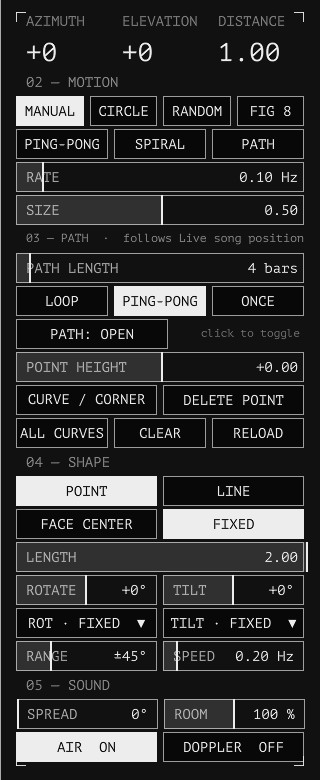
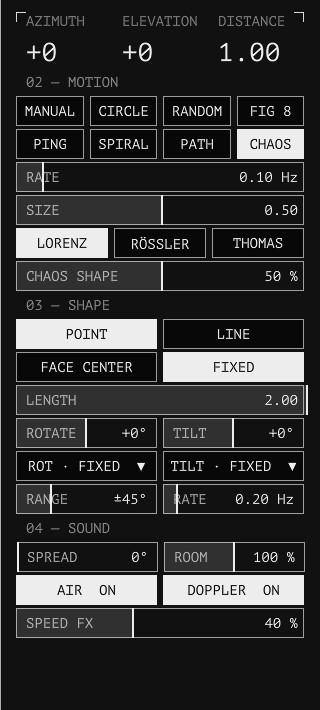
Orbit Score wiki v9.4: binaural room, distance compensation, ear height, room presets, mirror, SPEAKERS tab
Claude-Session: https://claude.ai/code/session_01TKc1CDoWRtRwsAG1rPAYtG

diff --git a/orbitscore-wiki/index.html b/orbitscore-wiki/index.html
@@ -144,7 +144,7 @@ footer{font:11.5px/1.6 var(--f-mono);color:var(--mid);border-top:1px solid var(-
 <div class="page">
 <nav class="side" aria-label="Contents">
   <div class="brand">ORBIT SCORE</div>
-  <div class="status">WIKI · v9.3 · 2026.11<br>LIVE · M4L · TOUCHDESIGNER</div>
+  <div class="status">WIKI · v9.4 · 2026.11<br>LIVE · M4L · TOUCHDESIGNER</div>
   <button class="btn menu" id="menuBtn" aria-expanded="false">CONTENTS ▾</button>
   <ol class="toc" id="toc">
     <li><a href="#overview"><span>00</span>OVERVIEW</a></li>
@@ -251,16 +251,17 @@ footer{font:11.5px/1.6 var(--f-mono);color:var(--mid);border-top:1px solid var(-
     <li>When you finish, <strong>save TouchDesigner with <kbd>Ctrl</kbd>+<kbd>S</kbd> and save the Live set as well</strong>. Paths and motion settings live in the Live set; the TouchDesigner save keeps the screen and theme settings.</li>
   </ol>
   <h4>Speaker outputs</h4>
-  <p>LIVE tab, right under <strong>02 SPEAKER LAYOUT</strong> (you press it after every layout change). No audio device is chosen in TouchDesigner — the sound always comes from Live, and the device (JackRouter / BlackHole) is set in Live's preferences (<a href="#setup-live">01.1</a>, <a href="#setup-out">01.3</a>).</p>
+  <p><span class="pill">SPEAKERS</span> tab, <strong>02 OUTPUTS</strong>, right under <strong>01 SPEAKER LAYOUT</strong> (you press it after every layout change). No audio device is chosen in TouchDesigner — the sound always comes from Live, and the device (JackRouter / BlackHole) is set in Live's preferences (<a href="#setup-live">01.1</a>, <a href="#setup-out">01.3</a>).</p>
   <ul>
     <li><strong>SET UP OUTPUTS 1…n IN LIVE</strong> — the Spatial Renderer creates one audio track per speaker pair (<code>OUT 1/2</code>, <code>OUT 3/4</code> …), feeds each from its own output pair and routes it to the matching Live output; spare empty OUT tracks are removed. It takes a few seconds. Press it again after changing the layout. Each Spatial Object routes its own track into the renderer when the monitor is on SPEAKERS.</li>
     <li><strong>Status line</strong> — <span class="mono">✓ renderer → OUT tracks → Live outputs 1…8</span>, or missing OUT tracks / wrong routing / Live offering fewer outputs than the layout needs (enable them in Output Config). The same shows as ⚠ on the LOG tab.</li>
     <li><strong>TEST · &lt; · &gt; · AUTO</strong> — speaker check. TEST plays pink noise from one speaker at a time (objects are silenced meanwhile); &lt; and &gt; step through the speakers, AUTO steps by itself. In the 3D view every speaker shows its number and the one sounding changes colour. Press TEST again to stop.</li>
     <li><strong>OUTPUT MAP</strong> — which Live output each speaker plays on, in speaker order: <span class="mono">1 2 3 4 5 6</span> is the default, <span class="mono">3 4 1 2</span> swaps the pairs, <span class="mono">1 2 3 4 7 8</span> skips outputs 5–6. Type and press Enter; empty goes back to 1 2 3 …. Kept per layout. SET UP then makes OUT tracks up to the highest channel, and TEST follows the map.</li>
-    <li><strong>Custom (measured)</strong> — last entry of the layout list. <strong>EDIT TABLE</strong> opens a table with one row per speaker: <span class="mono">name · az · el · dist · lfe</span> (az + = left, el + = up, dist relative to the ring, 1 = the speaker radius; lfe 1 for a sub). Measure the real room and type it in: the preview, the panning (VBAP, DBAP, AMBI decoder) and WFS all update when the table changes. Up to 64 speakers.</li>
+    <li><strong>Custom (measured)</strong> — last entry of the layout list. <strong>EDIT TABLE</strong> opens a table with one row per speaker: <span class="mono">name · az · el · dist · lfe</span> (az + = left, el + = up, dist relative to the ring, 1 = the speaker radius; lfe 1 for a sub). Measure the real room and type it in: the preview, the panning (VBAP, DBAP, AMBI decoder) and WFS all update when the table changes. Up to 64 speakers. <strong>MIRROR L ↔ R</strong> adds the missing twin of every speaker off the centre line (same elevation and distance at −azimuth; names ending in L / R swap), so you only measure one side.</li>
+    <li><strong>03 DISTANCE</strong> — <strong>SPEAKER DISTANCE</strong>: you to the speaker ring in metres (drag up / down). It is the scale between the layout and the real room: the reflections, Doppler, near field and WFS use it. <strong>DIST COMP</strong> (on): when the speakers are not all equally far (a measured custom layout), the nearer ones are delayed and turned down so every speaker arrives like the farthest one — like a car stereo's time alignment. Equal-distance layouts are untouched. Not used in WFS (it times every speaker itself); in WFS the button is PRE-FILTER.</li>
     <li><strong>METER</strong> — optional. It finds JackRouter / BlackHole by itself and shows one level per speaker. On Windows, also connect Live's outputs to TouchDesigner's inputs in the QjackCtl Graph. You can leave it off.</li>
   </ul>
-  <figure class="ticks"><div class="t"></div><img src="media/ui-speakerout.jpg?v=1110g" alt="Sidebar LIVE tab: MONITOR with MASTER and MUTE, SPEAKER LAYOUT, SET UP OUTPUTS and METER, OUTPUT MAP, speaker TEST, status, OSC IN with SOURCE and PORT, TRACKS" loading="lazy" width="478" height="675" style="max-width:478px"><figcaption>FIG. 1.2 — LIVE tab: SET UP OUTPUTS · METER under the speaker layout, wiki link at the bottom</figcaption></figure>
+  <figure class="ticks"><div class="t"></div><img src="media/ui-speakerout.jpg?v=1111b" alt="Sidebar SPEAKERS tab: 01 SPEAKER LAYOUT, 02 OUTPUTS with SET UP OUTPUTS, METER, OUTPUT MAP, TEST and status, 03 DISTANCE with SPEAKER DISTANCE and DIST COMP" loading="lazy" width="480" height="465" style="max-width:480px"><figcaption>FIG. 1.2 — SPEAKERS tab: layout, outputs, distance</figcaption></figure>
   <div class="note"><b>NOTE</b>Live's Preferences → Audio (driver, device, sample rate, Output Config) cannot be changed through the Live API, so that part is set by hand once. The tracks and routing inside the set are handled by SET UP.</div>
   </section>
 
@@ -365,16 +366,18 @@ footer{font:11.5px/1.6 var(--f-mono);color:var(--mid);border-top:1px solid var(-
   </table></div>
   <h3>Sidebar</h3>
   <p>The right-hand panel folds away with the <span class="pill">›</span> button on its edge. It has three tabs.</p>
+  <figure class="ticks"><div class="t"></div><img src="media/ui-live.jpg?v=1111b" alt="Sidebar LIVE tab: 01 MONITOR with MASTER and MUTE, 02 SOURCE with PORT, TRACKS" loading="lazy" width="480" height="460" style="max-width:480px"><figcaption>FIG. 3.2 — LIVE tab</figcaption></figure>
   <div class="tw"><table>
     <tr><th>Tab</th><th>Contents</th></tr>
-    <tr><td>LIVE</td><td>Everything that talks to Live. <strong>01 MONITOR</strong> Off / Binaural (HP) / Speakers, and <strong>MASTER</strong> volume with <strong>MUTE</strong> right under it (in speaker mode it scales the Spatial Renderer, MUTE silences everything and keeps the slider) · <strong>02 SPEAKER LAYOUT</strong> click to open the list (Custom: EDIT TABLE) · <strong>SET UP OUTPUTS 1…n IN LIVE</strong> and optional METER · <strong>OUTPUT MAP</strong> which Live output each speaker plays on · <strong>TEST · &lt; · &gt; · AUTO</strong> · status line (setup hints only while something is missing) · <strong>03 OSC IN · SOURCE</strong> SOURCE: LIVE / DEMO, Live's audio state (DSP, sample rate, vector size), PORT · <strong>TRACKS</strong> per track: show (eye), name label (Aa), mute (M), colour, level meter</td></tr>
-    <tr><td>SPACE</td><td>How the sound fills the space. <strong>01 PANNING MODEL</strong> VBAP / DBAP / AMBI / WFS, follows the layout unless you pick one · <strong>02 ROOM</strong> ROOM REVERB (on, time, amount), REFLECTIONS (on, room, level), SPEAKER DISTANCE in metres (+ PRE-FILTER in WFS). Drag a value up / down to change it</td></tr>
-    <tr><td>VIEW</td><td>Only what changes the picture. <strong>01 VIEW</strong> dome guide, auto orbit, reset view, ears, theme, names, head (hides the listener model, ears and face), <strong>ROOM</strong> (shows the room reverb and reflections in 3D), <strong>TRAIL</strong> (each object leaves fading dots for 2.5 s; sparse dots = fast)</td></tr>
-    <tr><td>SCENES</td><td>Scene list (see <a href="#scenes">05</a>)</td></tr>
+    <tr><td>LIVE</td><td>Playing. <strong>01 MONITOR</strong> Off / Binaural (HP) / Speakers, <strong>MASTER</strong> volume and <strong>MUTE</strong> (MUTE silences everything and keeps the slider) · <strong>02 SOURCE</strong> SOURCE: LIVE / DEMO, Live's audio state (DSP, sample rate, vector size), PORT · <strong>TRACKS</strong> per track: show (eye), name label (Aa), mute (M), colour, level meter</td></tr>
+    <tr><td>SPEAKERS</td><td>The speaker setup (<a href="#setup-out">01.3</a>). <strong>01 SPEAKER LAYOUT</strong> (Custom: EDIT TABLE, MIRROR L ↔ R) · <strong>02 OUTPUTS</strong> SET UP OUTPUTS 1…n IN LIVE, METER, OUTPUT MAP, TEST · &lt; · &gt; · AUTO, status line (setup hints only while something is missing) · <strong>03 DISTANCE</strong> SPEAKER DISTANCE in metres, DIST COMP (WFS: PRE-FILTER)</td></tr>
+    <tr><td>SPACE</td><td>How the sound fills the space. <strong>01 PANNING MODEL</strong> VBAP / DBAP / AMBI / WFS, follows the layout unless you pick one · <strong>02 ROOM</strong> presets ANECHOIC / STUDIO / ROOM / HALL / CATHEDRAL, REVERB (on, time, amount), REFLECTIONS (on, walls, level), EAR HEIGHT. Drag a value up / down to change it</td></tr>
+    <tr><td>VIEW</td><td>Only what changes the picture. <strong>01 CAMERA</strong> auto orbit, reset view, theme · <strong>02 SHOW</strong> names, ears, head (the listener model, ears and face), dome guide, <strong>ROOM</strong> (room box, reflections and reverb in 3D, with the preset name), <strong>TRAIL</strong> (each object leaves fading dots for 2.5 s; sparse dots = fast)</td></tr>
+    <tr><td>SCENES</td><td>Scene list (see <a href="#scenes">05</a>). The play position, active scene and FOLLOW are on the timeline bar under the 3D view</td></tr>
     <tr><td>LOG</td><td>WARNINGS (output checks; a ⚠ on the tab while one is active), OSC and device messages. Drag to select and copy. COPY / CLEAR / RESEND (ask Live to send its whole state again)</td></tr>
   </table></div>
   <h3>Changing a track's colour</h3>
-  <figure class="ticks"><div class="t"></div><img src="media/ui-palette.jpg?v=1110b" alt="Track colour palette: the same 70 colours as Ableton, laid out 14 by 5 in a pop-up" loading="lazy" width="1920" height="1080"><figcaption>FIG. 3.2 — Clicking a colour square opens Ableton's 70-colour palette just below that row</figcaption></figure>
+  <figure class="ticks"><div class="t"></div><img src="media/ui-palette.jpg?v=1110b" alt="Track colour palette: the same 70 colours as Ableton, laid out 14 by 5 in a pop-up" loading="lazy" width="1920" height="1080"><figcaption>FIG. 3.3 — Clicking a colour square opens Ableton's 70-colour palette just below that row</figcaption></figure>
   <p>Click the colour square on a track row to open the palette. Pick a colour and both TouchDesigner and the Live track change. Click the same square again, or <span class="mono">×</span>, to close it. The current colour is outlined.</p>
 </section>
 
@@ -383,7 +386,8 @@ footer{font:11.5px/1.6 var(--f-mono);color:var(--mid);border-top:1px solid var(-
   <div class="cap">04 — Object editor</div>
   <h2>Object editor</h2>
   <figure class="ticks"><div class="t"></div><img src="media/ui-editor.jpg?v=1110b" alt="OBJECT EDITOR: object list on the left, path canvas with orbit gizmo in the centre, MOTION / PATH / SHAPE settings on the right" loading="lazy" width="1920" height="1080"><figcaption>FIG. 4.1 — Left: objects · centre: path canvas · right: position read-out, MOTION, PATH, SHAPE · EDIT PATH above the canvas</figcaption></figure>
-  <figure class="ticks"><div class="t"></div><img src="media/ui-editor-set.jpg?v=1111a" alt="Editor settings column: 02 MOTION, 03 PATH, 04 SHAPE (ROTATE | TILT, modulation dropdowns, RANGE | SPEED), 05 SOUND (SPREAD | ROOM, AIR | DOPPLER)" loading="lazy" width="320" height="780" style="max-width:320px"><figcaption>FIG. 4.2 — Settings column: SHAPE and SOUND</figcaption></figure>
+  <figure class="ticks"><div class="t"></div><img src="media/ui-editor-set.jpg?v=1111b" alt="Editor settings column with CHAOS selected: 02 MOTION, attractor buttons and CHAOS SHAPE, 03 SHAPE, 04 SOUND (SPREAD | ROOM, AIR | DOPPLER, SPEED FX)" loading="lazy" width="320" height="710" style="max-width:320px"><figcaption>FIG. 4.2 — Settings column: with CHAOS, PATH is hidden</figcaption></figure>
+  <figure class="ticks"><div class="t"></div><img src="media/ui-editor-chaos.jpg?v=1111b" alt="Editor canvas: the dotted figure of a CHAOS (Lorenz) object" loading="lazy" width="860" height="679"><figcaption>FIG. 4.3 — CHAOS: the attractor figure on the canvas</figcaption></figure>
   <p>Open it from <span class="pill">OBJECT EDITOR</span> in the top bar. Anything you change here goes straight to the Live device's parameters, and the screen shows what the device sends back, so editing in either place gives the same result.</p>
   <h3>Viewpoint</h3>
   <ul>
@@ -405,7 +409,7 @@ footer{font:11.5px/1.6 var(--f-mono);color:var(--mid);border-top:1px solid var(-
   </table></div>
   <p>Curves are Catmull-Rom (Hermite) splines, and playback moves at constant speed along the arc length. Position = Live song position ÷ (Path Length × 4 beats).</p>
   <h3>Sliders</h3>
-  <p>Click or drag a slider (RATE, SIZE, PATH LENGTH, POINT HEIGHT, LENGTH, SPREAD, ROOM, ROTATE, TILT, RANGE, SPEED) to set it. The settings column reads 02 MOTION · 03 PATH · 04 SHAPE (point / line, facing, LENGTH, ROTATE | TILT, their modulation, RANGE | SPEED) · <strong>05 SOUND</strong> (SPREAD | ROOM, AIR | DOPPLER, SPEED FX). With CHAOS, ATTRACTOR buttons and CHAOS SHAPE appear under SIZE; 03 PATH shows only with PATH or while EDIT PATH is on. Under TILT, <strong>ROT · FIXED ▼</strong> and <strong>TILT · FIXED ▼</strong> are dropdowns: pick FIXED, RANDOM, SPIN or LFO for that angle, and RANGE / SPEED set how far and how fast. While an angle is modulated its slider follows the moving value, its label shows the mode, and it cannot be dragged — the dial value in Live stays the centre the movement runs around. <strong>Double-click</strong> it to type a number instead: <kbd>Enter</kbd> or clicking elsewhere applies, <kbd>Esc</kbd> cancels. Units can be left off; the value is clamped to the slider's range.</p>
+  <p>Click or drag a slider (RATE, SIZE, PATH LENGTH, POINT HEIGHT, LENGTH, SPREAD, ROOM, ROTATE, TILT, RANGE, SPEED) to set it. The settings column reads 02 MOTION · 03 PATH (only with PATH or EDIT PATH; the numbers after it shift up when it is hidden) · 04 SHAPE (point / line, facing, LENGTH, ROTATE | TILT, their modulation, RANGE | RATE) · <strong>05 SOUND</strong> (SPREAD | ROOM, AIR | DOPPLER, SPEED FX). With CHAOS, ATTRACTOR buttons and CHAOS SHAPE appear under SIZE; 03 PATH shows only with PATH or while EDIT PATH is on. Under TILT, <strong>ROT · FIXED ▼</strong> and <strong>TILT · FIXED ▼</strong> are dropdowns: pick FIXED, RANDOM, SPIN or LFO for that angle, and RANGE / SPEED set how far and how fast. While an angle is modulated its slider follows the moving value, its label shows the mode, and it cannot be dragged — the dial value in Live stays the centre the movement runs around. <strong>Double-click</strong> it to type a number instead: <kbd>Enter</kbd> or clicking elsewhere applies, <kbd>Esc</kbd> cancels. Units can be left off; the value is clamped to the slider's range.</p>
   <h3>Saving</h3>
   <p><span class="pill">SAVE</span> writes every object's settings to <code>spatialize_snapshots/&lt;time&gt;.json</code> and <code>latest.json</code>, and saves the TouchDesigner project. <span class="pill">LOAD LAST</span> restores the last snapshot. Save the Live set separately.</p>
 </section>
@@ -450,7 +454,7 @@ footer{font:11.5px/1.6 var(--f-mono);color:var(--mid);border-top:1px solid var(-
   <p>A Line shape is split into two binaural chains, one per end: input L → end A, input R → end B.</p>
   <h3>SPEAKERS</h3>
   <p>The PANNING MODEL (below) gives a gain per speaker. In speaker mode every Spatial Object routes its track into the <strong>Spatial Renderer</strong> device (one input pair per object, up to 16), which mixes all objects onto the speakers at signal rate (up to 64) and hands each speaker pair to an <code>OUT</code> track routed to Live's outputs. No return tracks are used, so Live's limit of 12 returns does not apply. The track fader and mute still work: the track is sent post-mixer.</p>
-  <div class="note"><b>NOTE</b>The audio driver (ASIO / Core Audio), sample rate and buffer size are set in Live under <strong>Preferences → Audio</strong>. Live handles the audio; the AUDIO line on the LIVE tab only reports it. Getting the speaker feeds out of Live and into the room goes through BlackHole / JACK (<a href="#setup-out">01.3</a>); the SPEAKER OUTPUTS section sets up the output tracks and can meter them.</div>
+  <div class="note"><b>NOTE</b>The audio driver (ASIO / Core Audio), sample rate and buffer size are set in Live under <strong>Preferences → Audio</strong>. Live handles the audio; the DSP line on the LIVE tab (02 SOURCE) only reports it. Getting the speaker feeds out of Live and into the room goes through BlackHole / JACK (<a href="#setup-out">01.3</a>); the SPEAKER OUTPUTS section sets up the output tracks and can meter them.</div>
   <h3>Speaker layouts</h3>
   <div class="tw"><table>
     <tr><th>ID</th><th>Name</th></tr>
@@ -466,14 +470,15 @@ footer{font:11.5px/1.6 var(--f-mono);color:var(--mid);border-top:1px solid var(-
   <h3>Near field (binaural)</h3>
   <p>Headphones. When an object comes within about 1 m of the head (Distance × SPEAKER DISTANCE), the ear facing it gets louder and fuller in the bass and the far ear quieter — more than the far-field HRTF alone gives — and the whole sound comes up by as much as 6 dB. At 20 cm on the left: left ear about +11 dB with up to +6 dB of low end, right ear about −3 dB. That is the "whispering in your ear" cue. It needs no setting: it works on every object in binaural mode as soon as it gets close, and has no effect in speaker mode.</p>
   <h3>Early reflections</h3>
-  <p>Speaker mode. The first echoes off the walls, floor and ceiling tell the ear what kind of room it is in and where the source sits in it. For every object the Spatial Renderer mirrors its position in the six surfaces of a box room (first-order image sources), delays each mirror image by its extra path, lowers it by the extra distance and the surface's absorption, and pans it to its own direction with VBAP. Move an object towards a wall and its reflection off that wall gets earlier and louder.</p>
-  <p>SPACE tab, <strong>REFLECTIONS</strong>: ON / OFF, <strong>ROOM</strong> (listener to the walls, 1.5 – 40 m; floor 1.2 m below the ears, ceiling at least 2.8 m) and the level. <strong>SPEAKER DISTANCE</strong> (listener to the speakers in metres) sets the scale between the layout and the room — measure it in the real space. Press a value and drag up or down. The reflections come before the room reverb's tail, so the two work together: ROOM for the shape, ROOM REVERB for the length.</p>
+  <p>Speakers and binaural. The first echoes off the walls, floor and ceiling tell the ear what kind of room it is in and where the source sits in it. For every object the Spatial Renderer mirrors its position in the six surfaces of a box room (first-order image sources), delays each mirror image by its extra path, lowers it by the extra distance and the surface's absorption, and pans it to its own direction with VBAP. Move an object towards a wall and its reflection off that wall gets earlier and louder.</p>
+  <p>SPACE tab, <strong>REFLECTIONS</strong>: ON / OFF, <strong>WALLS</strong> (listener to the walls, 1.5 – 40 m; ceiling at least 2.8 m above the floor) and the level; <strong>EAR HEIGHT</strong> puts the floor that far below the ears (1.2 m seated, about 1.6 m standing; the 3D grid follows). <strong>SPEAKER DISTANCE</strong> (SPEAKERS tab, listener to the speakers in metres) sets the scale between the layout and the room — measure it in the real space. Press a value and drag up or down. The reflections come before the room reverb's tail, so the two work together: WALLS for the shape, REVERB for the length.</p>
   <h3>Room reverb</h3>
-  <p>Speaker mode. The strongest distance cue is how much room you hear against the direct sound: a near source is mostly direct, a far one mostly room. The Spatial Renderer has one shared reverb (an 8-line feedback delay network); every object feeds it with a send that grows with its Distance, while its direct sound keeps falling with distance — so moving an object out makes it sound farther, not just quieter. The reverb's 8 uncorrelated tails are spread over all speakers (LFE excluded, the OUTPUT MAP is followed), so the room surrounds the listener.</p>
-  <p>SPACE tab, <strong>ROOM REVERB</strong>: ON / OFF, the reverb time (0.3 – 10 s; the room also gets bigger with it) and the amount (0 – 100 %). Press a value and drag up or down to change it. It works with every panning model. MASTER and MUTE apply to it, the speaker TEST silences it. Binaural mode has no room reverb yet — use a reverb on a Live return there.</p>
-  <p><strong>In the 3D view</strong> (VIEW tab, ROOM, speaker mode only): the room box is the room the reflections use (walls at ROOM m, floor 1.2 m below the ears). Each object draws its six reflections as ghost points behind the walls, with the bounce path object → wall → you; brighter = louder reflection (REFLECTIONS level, the track's ROOM send, its meter). While a track sends to the reverb, rings spread out from it and fade over the reverb time, and a blue haze fills the box with the summed tail. It is the renderer's maths driven by the track meters, not a measurement of the audio.</p>
+  <p>Speakers and binaural. The strongest distance cue is how much room you hear against the direct sound: a near source is mostly direct, a far one mostly room. The Spatial Renderer has one shared reverb (an 8-line feedback delay network); every object feeds it with a send that grows with its Distance, while its direct sound keeps falling with distance — so moving an object out makes it sound farther, not just quieter. The reverb's 8 uncorrelated tails are spread over all speakers (LFE excluded, the OUTPUT MAP is followed), so the room surrounds the listener.</p>
+  <p>SPACE tab, <strong>REVERB</strong>: ON / OFF, the reverb time (0.3 – 10 s; the room also gets bigger with it) and the amount (0 – 100 %). Press a value and drag up or down to change it. It works with every panning model. MASTER and MUTE apply to it, the speaker TEST silences it. The <strong>presets</strong> above set reverb and reflections in one click: ANECHOIC (no room, direct sound only), STUDIO, ROOM, HALL, CATHEDRAL; change any value and the preset reads CUSTOM.</p>
+  <p><strong>Binaural</strong>: the room works on headphones too. Each Spatial Object still plays its own HRTF on its track, and also sends its mono signal to the Spatial Renderer (<code>send~ orbit_rs_&lt;slot&gt;</code>). There the same reverb leaves as a wide decorrelated stereo pair, and the six reflections of every object as binaural taps (level and arrival-time difference between the ears for each reflection's direction), on the renderer's own track output (1/2 → Main). So the ORBIT RENDER track must stay in the set and play to Main in binaural mode.</p>
+  <p><strong>In the 3D view</strong> (VIEW tab, ROOM; speakers or binaural): the room box is the room the reflections use (WALLS, floor EAR HEIGHT below the ears), with the preset name above it — <span class="mono">[ hall ]</span>, <span class="mono">[ custom ]</span>; ANECHOIC shows no box. Each object draws its six reflections as ghost points behind the walls, with the bounce path object → wall → you; brighter = louder reflection (REFLECTIONS level, the track's ROOM send, its meter). While a track sends to the reverb, rings spread out from it and fade over the reverb time, and a blue haze fills the box with the summed tail. It is the renderer's maths driven by the track meters, not a measurement of the audio.</p>
   <h3>Panning model</h3>
-  <figure class="ticks"><div class="t"></div><img src="media/ui-space.jpg?v=1111a" alt="Sidebar SPACE tab: 01 PANNING MODEL with VBAP DBAP AMBI WFS, 02 ROOM with ROOM REVERB, REFLECTIONS and SPEAKER DISTANCE" loading="lazy" width="478" height="389" style="max-width:478px"><figcaption>FIG. 6.1 — SPACE tab: panning model and room</figcaption></figure>
+  <figure class="ticks"><div class="t"></div><img src="media/ui-space.jpg?v=1111b" alt="Sidebar SPACE tab: 01 PANNING MODEL with VBAP DBAP AMBI WFS, 02 ROOM with presets, REVERB, REFLECTIONS and EAR HEIGHT" loading="lazy" width="480" height="425" style="max-width:480px"><figcaption>FIG. 6.1 — SPACE tab: panning model and room</figcaption></figure>
   <p>PANNING MODEL (SPACE tab) sets how the <strong>Spatial Renderer</strong> spreads each object over the speakers, and the 3D view lights the speakers with the same gains — what you see is what you hear. All models are normalised to the same energy, so switching does not jump in level.</p>
   <p><strong>Auto by layout.</strong> Choosing a speaker layout also picks its recommended model: VBAP for stereo, quad, 5.1, 7.1 and 5.1.4 (too few or too uneven speakers for Ambisonics); AMBI — the more enveloping of the two — for hexagon, octagon, ring 16, 7.1.4, 9.1.6, cube 8 and dome 25; WFS for the WFS arrays. Press another model and that choice is remembered for that layout (the heading reads <em>your pick</em>); press the recommended one to go back to auto. DBAP is never picked automatically — choose it for installations and walking audiences.</p>
   <div class="tw"><table>
@@ -652,6 +657,7 @@ footer{font:11.5px/1.6 var(--f-mono);color:var(--mid);border-top:1px solid var(-
   <h2>Changelog</h2>
   <div class="tw"><table>
     <tr><th>Date</th><th>Changes</th></tr>
+    <tr><td>2026.11.11</td><td>v9.4: binaural room (reverb + reflections on headphones through the Spatial Renderer) · speaker distance compensation (DIST COMP) · EAR HEIGHT · room presets ANECHOIC … CATHEDRAL with [ name ] in the 3D view · custom layout MIRROR L ↔ R · sidebar: new SPEAKERS tab, VIEW in CAMERA / SHOW, less repeated text (status, HUD, log folds repeats)</td></tr>
     <tr><td>2026.11.11</td><td>v9.3: CHAOS motion (Lorenz / Rossler / Thomas attractors), SPEED effect per object, motion TRAIL in the 3D view. Spatial Object is 752 px wide now</td></tr>
     <tr><td>2026.11.11</td><td>v9.2: room in the 3D view — room box, reflection ghosts and paths, reverb rings and haze (VIEW → ROOM)</td></tr>
     <tr><td>2026.11.11</td><td>v9.1: UI — new SPACE tab (panning model, room), MASTER and MUTE under MONITOR, setup hints only when something is missing, editor 05 SOUND section</td></tr>
@@ -768,16 +774,17 @@ footer{font:11.5px/1.6 var(--f-mono);color:var(--mid);border-top:1px solid var(-
     <li>작업이 끝나면 <strong>TouchDesigner는 <kbd>Ctrl</kbd>+<kbd>S</kbd>, Live 세트도 따로 저장</strong>. 경로·움직임 설정은 Live 세트에, 화면·테마 설정은 TouchDesigner 쪽에 저장된다.</li>
   </ol>
   <h4>Speaker outputs</h4>
-  <p>LIVE 탭, <strong>02 SPEAKER LAYOUT</strong> 바로 아래(레이아웃을 바꿀 때마다 누르므로). TouchDesigner에서는 오디오 장치를 고르지 않는다 — 소리는 항상 Live가 내고, 장치(JackRouter / BlackHole)는 Live 환경설정에서 정한다(<a href="#ko-setup-live">01.1</a>, <a href="#ko-setup-out">01.3</a>).</p>
+  <p><span class="pill">SPEAKERS</span> 탭 <strong>02 OUTPUTS</strong>, <strong>01 SPEAKER LAYOUT</strong> 바로 아래(레이아웃을 바꿀 때마다 누르므로). TouchDesigner에서는 오디오 장치를 고르지 않는다 — 소리는 항상 Live가 내고, 장치(JackRouter / BlackHole)는 Live 환경설정에서 정한다(<a href="#ko-setup-live">01.1</a>, <a href="#ko-setup-out">01.3</a>).</p>
   <ul>
     <li><strong>SET UP OUTPUTS 1…n IN LIVE</strong> — Spatial Renderer가 스피커 두 개당 오디오 트랙 하나(<code>OUT 1/2</code>, <code>OUT 3/4</code> …)를 만들고, 자기 출력 쌍을 그 트랙에 넣어 해당 Live 출력으로 연결한다. 남는 빈 OUT 트랙은 지운다. 몇 초 걸린다. 레이아웃을 바꾼 뒤 다시 누른다. 모니터가 SPEAKERS일 때 각 Spatial Object는 자기 트랙을 렌더러로 연결한다.</li>
     <li><strong>상태 줄</strong> — <span class="mono">✓ renderer → OUT tracks → Live outputs 1…8</span>, 또는 OUT 트랙 없음 / 잘못된 연결 / Live가 내주는 출력 수가 모자람(Output Config에서 켠다). 같은 내용이 LOG 탭 ⚠에도 뜬다.</li>
     <li><strong>TEST · &lt; · &gt; · AUTO</strong> — 스피커 점검. TEST를 누르면 스피커 하나씩에서 핑크 노이즈가 난다(그동안 오브젝트 소리는 멈춘다). &lt; &gt;로 스피커를 넘기고 AUTO는 자동으로 넘어간다. 3D 뷰의 스피커마다 번호가 뜨고 소리 나는 스피커의 색이 바뀐다. TEST를 다시 누르면 끝난다.</li>
     <li><strong>OUTPUT MAP</strong> — 스피커 순서대로, 각 스피커가 나갈 Live 출력: 기본은 <span class="mono">1 2 3 4 5 6</span>, <span class="mono">3 4 1 2</span>는 쌍을 바꾸고, <span class="mono">1 2 3 4 7 8</span>은 출력 5–6을 건너뛴다. 입력하고 Enter, 비우면 1 2 3 …으로 돌아간다. 레이아웃마다 따로 기억한다. SET UP은 가장 큰 채널까지 OUT 트랙을 만들고, TEST도 맵을 따른다.</li>
-    <li><strong>Custom (measured)</strong> — 레이아웃 목록 맨 끝. <strong>EDIT TABLE</strong>을 누르면 스피커 한 줄씩의 표가 열린다: <span class="mono">name · az · el · dist · lfe</span> (az + = 왼쪽, el + = 위, dist는 링 기준 상대값으로 1 = 스피커 반지름, 서브는 lfe 1). 실제 공간을 재서 입력하면 미리보기, 패닝(VBAP, DBAP, AMBI 디코더), WFS가 표를 바꿀 때마다 같이 바뀐다. 최대 64개.</li>
+    <li><strong>Custom (measured)</strong> — 레이아웃 목록 맨 끝. <strong>EDIT TABLE</strong>을 누르면 스피커 한 줄씩의 표가 열린다: <span class="mono">name · az · el · dist · lfe</span> (az + = 왼쪽, el + = 위, dist는 링 기준 상대값으로 1 = 스피커 반지름, 서브는 lfe 1). 실제 공간을 재서 입력하면 미리보기, 패닝(VBAP, DBAP, AMBI 디코더), WFS가 표를 바꿀 때마다 같이 바뀐다. 최대 64개. <strong>MIRROR L ↔ R</strong>는 가운데 선 밖의 스피커마다 빠진 반대쪽 짝을 만든다(같은 높이·거리, 방위각 부호만 반대; 이름 끝 L / R은 서로 바뀐다). 한쪽만 재면 된다.</li>
+    <li><strong>03 DISTANCE</strong> — <strong>SPEAKER DISTANCE</strong>: 청취자에서 스피커 링까지의 미터(위아래로 끌기). 레이아웃과 실제 방 사이의 축척이라 반사음, 도플러, 근거리 효과, WFS가 모두 이 값을 쓴다. <strong>DIST COMP</strong>(기본 켜짐): 스피커 거리가 서로 다르면(실측 custom 레이아웃) 가까운 스피커를 늦추고 줄여서 모든 스피커가 가장 먼 스피커처럼 도착하게 한다 — 자동차 오디오의 타임 얼라인먼트와 같다. 거리가 모두 같은 레이아웃에는 변화가 없다. WFS에서는 스피커 타이밍을 스스로 계산하므로 쓰지 않고, 그 자리에 PRE-FILTER가 나온다.</li>
     <li><strong>METER</strong> — 선택 사항. 켜면 JackRouter / BlackHole을 자동으로 찾아 스피커별 레벨을 보여준다. Windows에서는 QjackCtl Graph에서 Live 출력을 TouchDesigner 입력에도 연결해야 보인다. 끄고 써도 된다.</li>
   </ul>
-  <figure class="ticks"><div class="t"></div><img src="media/ui-speakerout.jpg?v=1110g" alt="사이드바 LIVE 탭: MASTER와 MUTE가 있는 MONITOR, SPEAKER LAYOUT, SET UP OUTPUTS와 METER, OUTPUT MAP, 스피커 TEST, 상태, SOURCE와 PORT가 있는 OSC IN, TRACKS" loading="lazy" width="478" height="675" style="max-width:478px"><figcaption>FIG. 1.2 — LIVE 탭: 스피커 레이아웃 아래 SET UP OUTPUTS · METER, 맨 아래 위키 링크</figcaption></figure>
+  <figure class="ticks"><div class="t"></div><img src="media/ui-speakerout.jpg?v=1111b" alt="사이드바 SPEAKERS 탭: 01 SPEAKER LAYOUT, 02 OUTPUTS(SET UP OUTPUTS, METER, OUTPUT MAP, TEST, 상태), 03 DISTANCE(SPEAKER DISTANCE, DIST COMP)" loading="lazy" width="480" height="465" style="max-width:480px"><figcaption>FIG. 1.2 — SPEAKERS 탭: 레이아웃, 출력, 거리</figcaption></figure>
   <div class="note"><b>NOTE</b>Live의 환경설정 → Audio(드라이버, 장치, 샘플레이트, Output Config)는 Live API로 바꿀 수 없어서 처음 한 번은 손으로 설정한다. 세트 안의 트랙과 연결은 SET UP이 맡는다.</div>
   </section>
 
@@ -880,16 +887,18 @@ footer{font:11.5px/1.6 var(--f-mono);color:var(--mid);border-top:1px solid var(-
   </table></div>
   <h3>사이드바</h3>
   <p>오른쪽 패널은 가장자리의 <span class="pill">›</span> 버튼으로 접고 펼 수 있다. 위쪽 탭은 세 개.</p>
+  <figure class="ticks"><div class="t"></div><img src="media/ui-live.jpg?v=1111b" alt="사이드바 LIVE 탭: 01 MONITOR(MASTER, MUTE), 02 SOURCE(PORT), TRACKS" loading="lazy" width="480" height="460" style="max-width:480px"><figcaption>FIG. 3.2 — LIVE 탭</figcaption></figure>
   <div class="tw"><table>
     <tr><th>탭</th><th>항목</th></tr>
-    <tr><td>LIVE</td><td>Live와 주고받는 것 전부. <strong>01 MONITOR</strong> Off / Binaural (HP) / Speakers, 바로 아래 <strong>MASTER</strong> 볼륨과 <strong>MUTE</strong>(스피커 모드에서는 Spatial Renderer 레벨, MUTE는 전체를 끄고 슬라이더 값은 유지) · <strong>02 SPEAKER LAYOUT</strong> 클릭하면 목록(Custom: EDIT TABLE) · <strong>SET UP OUTPUTS 1…n IN LIVE</strong>와 선택 사항 METER · <strong>OUTPUT MAP</strong> 스피커마다 나갈 Live 출력 · <strong>TEST · &lt; · &gt; · AUTO</strong> · 상태 줄(뭔가 빠졌을 때만 셋업 안내) · <strong>03 OSC IN · SOURCE</strong> SOURCE: LIVE / DEMO, Live 오디오 상태(DSP, 샘플레이트, 벡터 크기), PORT · <strong>TRACKS</strong> 트랙별 표시(눈), 이름표(Aa), 뮤트(M), 색, 레벨 미터</td></tr>
-    <tr><td>SPACE</td><td>소리가 공간을 채우는 방식. <strong>01 PANNING MODEL</strong> VBAP / DBAP / AMBI / WFS, 직접 고르지 않으면 레이아웃을 따라감 · <strong>02 ROOM</strong> ROOM REVERB(켜기, 길이, 양), REFLECTIONS(켜기, 방 크기, 레벨), SPEAKER DISTANCE 미터(WFS면 + PRE-FILTER). 값은 위아래로 끌어서 바꾼다</td></tr>
-    <tr><td>VIEW</td><td>화면에 관한 것만. <strong>01 VIEW</strong> Dome guide, Auto orbit, Reset view, Ears, Theme, Names, Head(청자 머리·귀·표정 숨기기), <strong>ROOM</strong>(룸 리버브와 반사음을 3D로 보기), <strong>TRAIL</strong>(오브젝트가 지나간 자리에 2.5초 동안 점이 남는다. 점 간격이 넓으면 빠른 것)</td></tr>
-    <tr><td>SCENES</td><td>씬 목록 (<a href="#ko-scenes">05</a> 참고)</td></tr>
+    <tr><td>LIVE</td><td>연주할 때 보는 것. <strong>01 MONITOR</strong> Off / Binaural (HP) / Speakers, <strong>MASTER</strong> 볼륨과 <strong>MUTE</strong>(MUTE는 전체를 끄고 슬라이더 값은 유지) · <strong>02 SOURCE</strong> SOURCE: LIVE / DEMO, Live 오디오 상태(DSP, 샘플레이트, 벡터 크기), PORT · <strong>TRACKS</strong> 트랙별 표시(눈), 이름표(Aa), 뮤트(M), 색, 레벨 미터</td></tr>
+    <tr><td>SPEAKERS</td><td>스피커 셋업(<a href="#ko-setup-out">01.3</a>). <strong>01 SPEAKER LAYOUT</strong>(Custom: EDIT TABLE, MIRROR L ↔ R) · <strong>02 OUTPUTS</strong> SET UP OUTPUTS 1…n IN LIVE, METER, OUTPUT MAP, TEST · &lt; · &gt; · AUTO, 상태 줄(뭔가 빠졌을 때만 셋업 안내) · <strong>03 DISTANCE</strong> SPEAKER DISTANCE 미터, DIST COMP(WFS면 PRE-FILTER)</td></tr>
+    <tr><td>SPACE</td><td>소리가 공간을 채우는 방식. <strong>01 PANNING MODEL</strong> VBAP / DBAP / AMBI / WFS, 직접 고르지 않으면 레이아웃을 따라감 · <strong>02 ROOM</strong> 프리셋 ANECHOIC / STUDIO / ROOM / HALL / CATHEDRAL, REVERB(켜기, 길이, 양), REFLECTIONS(켜기, 벽, 레벨), EAR HEIGHT. 값은 위아래로 끌어서 바꾼다</td></tr>
+    <tr><td>VIEW</td><td>화면에 관한 것만. <strong>01 CAMERA</strong> Auto orbit, Reset view, Theme · <strong>02 SHOW</strong> Names, Ears, Head(청자 머리·귀·표정), Dome guide, <strong>ROOM</strong>(방 상자, 반사음, 리버브를 3D로, 프리셋 이름표와 함께), <strong>TRAIL</strong>(오브젝트가 지나간 자리에 2.5초 동안 점이 남는다. 점 간격이 넓으면 빠른 것)</td></tr>
+    <tr><td>SCENES</td><td>씬 목록 (<a href="#ko-scenes">05</a> 참고). 재생 위치, 활성 씬, FOLLOW는 3D 뷰 아래 타임라인 바에 있다</td></tr>
     <tr><td>LOG</td><td>WARNINGS(출력 검사 — 걸려 있는 동안 탭에 ⚠), OSC·디바이스 로그. 드래그해서 선택·복사할 수 있다. COPY / CLEAR / RESEND(Live에 전체 상태를 다시 요청)</td></tr>
   </table></div>
   <h3>트랙 색 바꾸기</h3>
-  <figure class="ticks"><div class="t"></div><img src="media/ui-palette.jpg?v=1110b" alt="트랙 색 팔레트: Ableton과 같은 70색이 14×5로 펼쳐진 팝업" loading="lazy" width="1920" height="1080"><figcaption>FIG. 3.2 — 색 칸을 누르면 Ableton과 같은 70색 팔레트가 그 줄 아래에 뜬다</figcaption></figure>
+  <figure class="ticks"><div class="t"></div><img src="media/ui-palette.jpg?v=1110b" alt="트랙 색 팔레트: Ableton과 같은 70색이 14×5로 펼쳐진 팝업" loading="lazy" width="1920" height="1080"><figcaption>FIG. 3.3 — 색 칸을 누르면 Ableton과 같은 70색 팔레트가 그 줄 아래에 뜬다</figcaption></figure>
   <p>트랙 줄의 색 칸을 누르면 팔레트가 열린다. 고르면 TouchDesigner와 Live 트랙 색이 함께 바뀐다. 같은 칸을 다시 누르거나 <span class="mono">×</span>로 닫는다. 지금 색은 테두리로 표시된다.</p>
 </section>
 
@@ -897,7 +906,8 @@ footer{font:11.5px/1.6 var(--f-mono);color:var(--mid);border-top:1px solid var(-
   <div class="cap">04 — Object editor</div>
   <h2>오브젝트 에디터</h2>
   <figure class="ticks"><div class="t"></div><img src="media/ui-editor.jpg?v=1110b" alt="OBJECT EDITOR: 왼쪽 오브젝트 목록, 가운데 경로 캔버스와 회전 기즈모, 오른쪽 MOTION/PATH/SHAPE 설정" loading="lazy" width="1920" height="1080"><figcaption>FIG. 4.1 — 왼쪽: 오브젝트 · 가운데: 경로 캔버스 · 오른쪽: 위치 표시, MOTION, PATH, SHAPE · 캔버스 위 EDIT PATH</figcaption></figure>
-  <figure class="ticks"><div class="t"></div><img src="media/ui-editor-set.jpg?v=1111a" alt="편집기 설정 열: 02 MOTION, 03 PATH, 04 SHAPE(ROTATE | TILT, 모듈레이션 드롭다운, RANGE | SPEED), 05 SOUND(SPREAD | ROOM, AIR | DOPPLER)" loading="lazy" width="320" height="780" style="max-width:320px"><figcaption>FIG. 4.2 — 설정 열: SHAPE와 SOUND</figcaption></figure>
+  <figure class="ticks"><div class="t"></div><img src="media/ui-editor-set.jpg?v=1111b" alt="편집기 설정 열(CHAOS 선택): 02 MOTION, 어트랙터 버튼과 CHAOS SHAPE, 03 SHAPE, 04 SOUND(SPREAD | ROOM, AIR | DOPPLER, SPEED FX)" loading="lazy" width="320" height="710" style="max-width:320px"><figcaption>FIG. 4.2 — 설정 열: CHAOS일 때 PATH는 숨는다</figcaption></figure>
+  <figure class="ticks"><div class="t"></div><img src="media/ui-editor-chaos.jpg?v=1111b" alt="편집기 캔버스: CHAOS(Lorenz) 오브젝트가 갈 수 있는 궤도가 점으로" loading="lazy" width="860" height="679"><figcaption>FIG. 4.3 — CHAOS: 캔버스에 어트랙터 궤도</figcaption></figure>
   <p>상단 바의 <span class="pill">OBJECT EDITOR</span>로 연다. 여기서 바꾼 값은 곧바로 Live 디바이스 파라미터로 가고, 디바이스가 돌려보낸 값이 화면에 표시된다 — 양쪽 어디서 바꿔도 결과가 같다.</p>
   <h3>시점</h3>
   <ul>
@@ -919,7 +929,7 @@ footer{font:11.5px/1.6 var(--f-mono);color:var(--mid);border-top:1px solid var(-
   </table></div>
   <p>곡선은 Catmull-Rom(Hermite) 스플라인이고, 재생은 길이를 따라 등속으로 진행한다. 위치 = Live 송 포지션 ÷ (Path Length × 4박).</p>
   <h3>슬라이더</h3>
-  <p>슬라이더(RATE, SIZE, PATH LENGTH, POINT HEIGHT, LENGTH, SPREAD, ROOM, ROTATE, TILT, RANGE, SPEED, 05 SOUND의 AIR · DOPPLER 켜기/끄기)는 클릭하거나 드래그해서 값을 정한다. 설정 열은 02 MOTION · 03 PATH · 04 SHAPE(점/선, 방향, LENGTH, ROTATE | TILT와 그 모듈레이션, RANGE | SPEED) · <strong>05 SOUND</strong>(SPREAD | ROOM, AIR | DOPPLER, SPEED FX) 순서다. CHAOS를 고르면 SIZE 아래에 어트랙터 버튼과 CHAOS SHAPE가 나타나고, 03 PATH는 PATH를 고르거나 EDIT PATH가 켜져 있을 때만 보인다. TILT 아래 <strong>ROT · FIXED ▼</strong>, <strong>TILT · FIXED ▼</strong>는 드롭다운이다 — 그 각도에 FIXED, RANDOM, SPIN, LFO 중 하나를 고르고, RANGE / SPEED로 폭과 빠르기를 정한다. 모듈레이션 중인 각도의 슬라이더는 움직이는 값을 따라 움직이고, 이름 옆에 모드가 표시되며, 손으로는 바꿀 수 없다 — Live의 다이얼 값은 움직임의 중심으로 남는다. <strong>더블클릭</strong>하면 숫자를 직접 입력할 수 있다 — <kbd>Enter</kbd>나 다른 곳 클릭으로 적용, <kbd>Esc</kbd>로 취소. 단위는 빼도 되고, 값은 슬라이더 범위 안으로 맞춰진다.</p>
+  <p>슬라이더(RATE, SIZE, PATH LENGTH, POINT HEIGHT, LENGTH, SPREAD, ROOM, ROTATE, TILT, RANGE, SPEED, 05 SOUND의 AIR · DOPPLER 켜기/끄기)는 클릭하거나 드래그해서 값을 정한다. 설정 열은 02 MOTION · 03 PATH(PATH나 EDIT PATH일 때만; 숨으면 뒤 번호가 당겨진다) · 04 SHAPE(점/선, 방향, LENGTH, ROTATE | TILT와 그 모듈레이션, RANGE | RATE) · <strong>05 SOUND</strong>(SPREAD | ROOM, AIR | DOPPLER, SPEED FX) 순서다. CHAOS를 고르면 SIZE 아래에 어트랙터 버튼과 CHAOS SHAPE가 나타나고, 03 PATH는 PATH를 고르거나 EDIT PATH가 켜져 있을 때만 보인다. TILT 아래 <strong>ROT · FIXED ▼</strong>, <strong>TILT · FIXED ▼</strong>는 드롭다운이다 — 그 각도에 FIXED, RANDOM, SPIN, LFO 중 하나를 고르고, RANGE / SPEED로 폭과 빠르기를 정한다. 모듈레이션 중인 각도의 슬라이더는 움직이는 값을 따라 움직이고, 이름 옆에 모드가 표시되며, 손으로는 바꿀 수 없다 — Live의 다이얼 값은 움직임의 중심으로 남는다. <strong>더블클릭</strong>하면 숫자를 직접 입력할 수 있다 — <kbd>Enter</kbd>나 다른 곳 클릭으로 적용, <kbd>Esc</kbd>로 취소. 단위는 빼도 되고, 값은 슬라이더 범위 안으로 맞춰진다.</p>
   <h3>저장</h3>
   <p><span class="pill">SAVE</span>는 모든 오브젝트 설정을 <code>spatialize_snapshots/&lt;시간&gt;.json</code>과 <code>latest.json</code>으로 남기고 TouchDesigner 프로젝트도 저장한다. <span class="pill">LOAD LAST</span>로 마지막 스냅샷을 되돌린다. Live 세트는 따로 저장해야 한다.</p>
 </section>
@@ -962,7 +972,7 @@ footer{font:11.5px/1.6 var(--f-mono);color:var(--mid);border-top:1px solid var(-
   <p>Line 모양은 직선 양 끝을 두 개의 바이노럴 체인으로 나눠 입력 L → 끝 A, 입력 R → 끝 B로 보낸다.</p>
   <h3>SPEAKERS</h3>
   <p>PANNING MODEL(아래)로 스피커별 게인을 구한다. 스피커 모드에서 각 Spatial Object는 자기 트랙을 <strong>Spatial Renderer</strong> 디바이스로 보내고(오브젝트당 입력 한 쌍, 최대 16개), 렌더러가 모든 오브젝트를 오디오 신호 단위로 스피커에 섞어(최대 64개) 스피커 쌍마다 <code>OUT</code> 트랙으로 넘기면 그 트랙이 Live 출력으로 나간다. 리턴 트랙을 쓰지 않으므로 Live의 리턴 12개 제한과 무관하다. 트랙 페이더와 뮤트는 그대로 듣는다(포스트 믹서로 보낸다).</p>
-  <div class="note"><b>NOTE</b>오디오 드라이버(ASIO / Core Audio), 샘플레이트, 버퍼는 Live <strong>환경설정 → Audio</strong>에서 정한다. 소리는 Live가 처리하고 LIVE 탭의 AUDIO 줄은 그 상태를 보여줄 뿐이다. 스피커 피드를 Live 밖으로, 공간으로 보내는 건 BlackHole / JACK(<a href="#ko-setup-out">01.3</a>)이 하고, SPEAKER OUTPUTS 섹션이 출력 트랙을 맞추고, 원하면 미터로 보여준다.</div>
+  <div class="note"><b>NOTE</b>오디오 드라이버(ASIO / Core Audio), 샘플레이트, 버퍼는 Live <strong>환경설정 → Audio</strong>에서 정한다. 소리는 Live가 처리하고 LIVE 탭(02 SOURCE)의 DSP 줄은 그 상태를 보여줄 뿐이다. 스피커 피드를 Live 밖으로, 공간으로 보내는 건 BlackHole / JACK(<a href="#ko-setup-out">01.3</a>)이 하고, SPEAKER OUTPUTS 섹션이 출력 트랙을 맞추고, 원하면 미터로 보여준다.</div>
   <h3>스피커 레이아웃</h3>
   <div class="tw"><table>
     <tr><th>ID</th><th>이름</th></tr>
@@ -978,14 +988,15 @@ footer{font:11.5px/1.6 var(--f-mono);color:var(--mid);border-top:1px solid var(-
   <h3>근거리 효과 (바이노럴)</h3>
   <p>헤드폰. 오브젝트가 머리에서 약 1 m 안으로 들어오면(Distance × SPEAKER DISTANCE), 그쪽 귀는 더 크고 저음이 풍부해지고 반대쪽 귀는 작아진다 — 원거리 HRTF만으로 생기는 차이보다 크게 — 그리고 전체 음량이 최대 6 dB 올라간다. 왼쪽 20 cm에서는 왼쪽 귀가 약 +11 dB(저음은 최대 +6 dB 더), 오른쪽 귀는 약 −3 dB. "귓가에서 속삭이는" 느낌의 단서다. 설정할 것은 없다: 바이노럴 모드에서 모든 오브젝트가 가까워지면 저절로 적용되고, 스피커 모드에는 영향이 없다.</p>
   <h3>초기 반사음</h3>
-  <p>스피커 모드. 벽·바닥·천장에서 처음 튕겨 오는 소리는 귀에 방이 어떤 곳이고 음원이 그 안 어디에 있는지 알려준다. Spatial Renderer는 오브젝트마다 그 위치를 상자 모양 방의 여섯 면에 비춘 거울 음원(1차 이미지 소스)을 만들고, 각각 늘어난 경로만큼 늦추고, 늘어난 거리와 면의 흡음만큼 줄이고, VBAP로 그 방향에 패닝한다. 오브젝트를 벽 쪽으로 옮기면 그 벽의 반사음이 더 빨라지고 커진다.</p>
-  <p>SPACE 탭 <strong>REFLECTIONS</strong>: ON / OFF, <strong>ROOM</strong>(청취자에서 벽까지, 1.5 – 40 m; 바닥은 귀 높이보다 1.2 m 아래, 천장은 최소 2.8 m), 레벨. <strong>SPEAKER DISTANCE</strong>(청취자에서 스피커까지, 미터)가 레이아웃과 방 사이의 축척을 정한다 — 실제 공간에서 잰다. 값을 누른 채 위아래로 끌어서 바꾼다. 반사음은 룸 리버브의 꼬리보다 먼저 와서 둘이 함께 동작한다: ROOM은 방의 모양, ROOM REVERB는 울림의 길이.</p>
+  <p>스피커·바이노럴 모드. 벽·바닥·천장에서 처음 튕겨 오는 소리는 귀에 방이 어떤 곳이고 음원이 그 안 어디에 있는지 알려준다. Spatial Renderer는 오브젝트마다 그 위치를 상자 모양 방의 여섯 면에 비춘 거울 음원(1차 이미지 소스)을 만들고, 각각 늘어난 경로만큼 늦추고, 늘어난 거리와 면의 흡음만큼 줄이고, VBAP로 그 방향에 패닝한다. 오브젝트를 벽 쪽으로 옮기면 그 벽의 반사음이 더 빨라지고 커진다.</p>
+  <p>SPACE 탭 <strong>REFLECTIONS</strong>: ON / OFF, <strong>WALLS</strong>(청취자에서 벽까지, 1.5 – 40 m; 천장은 바닥에서 최소 2.8 m), 레벨. <strong>EAR HEIGHT</strong>는 귀에서 바닥까지(앉으면 1.2 m, 서면 약 1.6 m; 3D 바닥 격자도 따라간다). <strong>SPEAKER DISTANCE</strong>(SPEAKERS 탭, 청취자에서 스피커까지, 미터)가 레이아웃과 방 사이의 축척을 정한다 — 실제 공간에서 잰다. 값을 누른 채 위아래로 끌어서 바꾼다. 반사음은 룸 리버브의 꼬리보다 먼저 와서 둘이 함께 동작한다: WALLS는 방의 모양, REVERB는 울림의 길이.</p>
   <h3>룸 리버브</h3>
-  <p>스피커 모드. 거리감에 가장 강하게 작용하는 건 직접음 대비 방 울림의 양이다: 가까운 소리는 대부분 직접음, 먼 소리는 대부분 울림. Spatial Renderer에 공용 리버브가 하나 있고(8줄 피드백 딜레이 네트워크), 각 오브젝트는 Distance가 클수록 많이 보내며 직접음은 거리에 따라 계속 줄어든다 — 그래서 오브젝트를 멀리 보내면 작아지기만 하는 게 아니라 멀어진다. 리버브의 서로 다른 꼬리 8개가 모든 스피커로 퍼져서(LFE 제외, OUTPUT MAP을 따름) 방 울림이 청취자를 감싼다.</p>
-  <p>SPACE 탭 <strong>ROOM REVERB</strong>: ON / OFF, 울림 길이(0.3 – 10초, 길수록 방도 커진다), 양(0 – 100 %). 값을 누른 채 위아래로 끌어서 바꾼다. 모든 패닝 방식에서 동작한다. MASTER와 MUTE가 적용되고, 스피커 TEST 중에는 꺼진다. 바이노럴 모드에는 아직 룸 리버브가 없다 — 그때는 Live 리턴 트랙에 리버브를 쓴다.</p>
-  <p><strong>3D 뷰에서</strong>(VIEW 탭 ROOM, 스피커 모드에서만): 상자는 반사음이 쓰는 방이다(벽 = ROOM m, 바닥은 귀 아래 1.2 m). 오브젝트마다 반사음 6개가 벽 너머의 흐린 점으로 보이고, 오브젝트 → 벽 → 청자로 튕기는 경로가 선으로 그려진다. 밝을수록 반사음이 크다(REFLECTIONS 레벨, 트랙 ROOM 센드, 트랙 레벨). 트랙이 리버브로 소리를 보내는 동안 그 자리에서 링이 퍼져 나가 리버브 시간에 맞춰 사라지고, 꼬리 전체만큼 상자 안에 푸른 안개가 찬다. 실제 오디오를 잰 값이 아니라 렌더러와 같은 계산을 트랙 레벨로 돌린 것이다.</p>
+  <p>스피커·바이노럴 모드. 거리감에 가장 강하게 작용하는 건 직접음 대비 방 울림의 양이다: 가까운 소리는 대부분 직접음, 먼 소리는 대부분 울림. Spatial Renderer에 공용 리버브가 하나 있고(8줄 피드백 딜레이 네트워크), 각 오브젝트는 Distance가 클수록 많이 보내며 직접음은 거리에 따라 계속 줄어든다 — 그래서 오브젝트를 멀리 보내면 작아지기만 하는 게 아니라 멀어진다. 리버브의 서로 다른 꼬리 8개가 모든 스피커로 퍼져서(LFE 제외, OUTPUT MAP을 따름) 방 울림이 청취자를 감싼다.</p>
+  <p>SPACE 탭 <strong>REVERB</strong>: ON / OFF, 울림 길이(0.3 – 10초, 길수록 방도 커진다), 양(0 – 100 %). 값을 누른 채 위아래로 끌어서 바꾼다. 모든 패닝 방식에서 동작한다. MASTER와 MUTE가 적용되고, 스피커 TEST 중에는 꺼진다. 위의 <strong>프리셋</strong>은 리버브와 반사음을 한 번에 정한다: ANECHOIC(방 없음, 직접음만), STUDIO, ROOM, HALL, CATHEDRAL. 값을 하나라도 바꾸면 CUSTOM이 된다.</p>
+  <p><strong>바이노럴</strong>: 헤드폰에서도 방이 걸린다. 각 Spatial Object는 지금처럼 자기 트랙에서 HRTF를 내면서, 모노 신호를 Spatial Renderer로도 보낸다(<code>send~ orbit_rs_&lt;slot&gt;</code>). 렌더러에서 같은 리버브가 넓게 탈상관된 스테레오로, 오브젝트마다 반사음 6개가 바이노럴 탭(반사음 방향에 따른 두 귀의 레벨 차와 도착 시간 차)으로 렌더러 트랙 출력(1/2 → Main)에 나간다. 그래서 바이노럴 모드에서도 ORBIT RENDER 트랙이 세트에 있고 Main으로 나가야 한다.</p>
+  <p><strong>3D 뷰에서</strong>(VIEW 탭 ROOM; 스피커·바이노럴): 상자는 반사음이 쓰는 방이다(벽 = WALLS, 바닥은 귀 아래 EAR HEIGHT). 상자 위에 프리셋 이름이 뜬다 — <span class="mono">[ hall ]</span>, <span class="mono">[ custom ]</span>. ANECHOIC이면 상자가 없다. 오브젝트마다 반사음 6개가 벽 너머의 흐린 점으로 보이고, 오브젝트 → 벽 → 청자로 튕기는 경로가 선으로 그려진다. 밝을수록 반사음이 크다(REFLECTIONS 레벨, 트랙 ROOM 센드, 트랙 레벨). 트랙이 리버브로 소리를 보내는 동안 그 자리에서 링이 퍼져 나가 리버브 시간에 맞춰 사라지고, 꼬리 전체만큼 상자 안에 푸른 안개가 찬다. 실제 오디오를 잰 값이 아니라 렌더러와 같은 계산을 트랙 레벨로 돌린 것이다.</p>
   <h3>패닝 모델</h3>
-  <figure class="ticks"><div class="t"></div><img src="media/ui-space.jpg?v=1111a" alt="사이드바 SPACE 탭: 01 PANNING MODEL(VBAP DBAP AMBI WFS), 02 ROOM(ROOM REVERB, REFLECTIONS, SPEAKER DISTANCE)" loading="lazy" width="478" height="389" style="max-width:478px"><figcaption>FIG. 6.1 — SPACE 탭: 패닝 방식과 방</figcaption></figure>
+  <figure class="ticks"><div class="t"></div><img src="media/ui-space.jpg?v=1111b" alt="사이드바 SPACE 탭: 01 PANNING MODEL(VBAP DBAP AMBI WFS), 02 ROOM(프리셋, REVERB, REFLECTIONS, EAR HEIGHT)" loading="lazy" width="480" height="425" style="max-width:480px"><figcaption>FIG. 6.1 — SPACE 탭: 패닝 방식과 방</figcaption></figure>
   <p>PANNING MODEL(SPACE 탭)은 <strong>Spatial Renderer</strong>가 각 오브젝트를 스피커에 어떻게 나눌지 정하고, 3D 뷰의 스피커도 같은 게인으로 빛난다 — 보이는 것이 곧 들리는 것. 모든 방식은 같은 에너지로 맞춰져 있어서 바꿔도 음량이 튀지 않는다.</p>
   <p><strong>레이아웃에 따라 자동.</strong> 스피커 레이아웃을 고르면 추천 방식도 같이 정해진다: 스테레오·쿼드·5.1·7.1·5.1.4는 VBAP(Ambisonics에는 스피커가 너무 적거나 고르지 않음), 둘 중 더 감싸는 느낌인 AMBI는 육각·팔각·링 16·7.1.4·9.1.6·큐브 8·돔 25, WFS 배열은 WFS. 다른 방식을 누르면 그 레이아웃에서는 그 선택이 기억되고(제목에 <em>your pick</em>), 추천 방식을 누르면 다시 자동으로 돌아간다. DBAP는 자동으로 고르지 않는다 — 설치 작품이나 돌아다니는 관객이면 직접 고른다.</p>
   <div class="tw"><table>
@@ -1157,6 +1168,7 @@ footer{font:11.5px/1.6 var(--f-mono);color:var(--mid);border-top:1px solid var(-
   <h2>변경 이력</h2>
   <div class="tw"><table>
     <tr><th>날짜</th><th>내용</th></tr>
+    <tr><td>2026.11.11</td><td>v9.4: 바이노럴 룸(헤드폰에서도 리버브 + 반사음, Spatial Renderer 경유) · 스피커 거리 보정(DIST COMP) · EAR HEIGHT · 방 프리셋 ANECHOIC … CATHEDRAL과 3D 뷰 [ 이름 ] · custom 레이아웃 MIRROR L ↔ R · 사이드바: 새 SPEAKERS 탭, VIEW를 CAMERA / SHOW로, 중복 문구 정리(상태 줄, HUD, 로그 반복 접기)</td></tr>
     <tr><td>2026.11.11</td><td>v9.3: CHAOS 모션(Lorenz / Rossler / Thomas 어트랙터), 오브젝트별 SPEED 효과, 3D 뷰 모션 TRAIL. Spatial Object 폭 752 px</td></tr>
     <tr><td>2026.11.11</td><td>v9.2: 3D 뷰에 방 표시 — 방 상자, 반사음 유령 점과 경로, 리버브 링과 안개 (VIEW → ROOM)</td></tr>
     <tr><td>2026.11.11</td><td>v9.1: UI — 새 SPACE 탭(패닝 방식, 방), MONITOR 아래 MASTER와 MUTE, 셋업 안내는 빠진 게 있을 때만, 편집기 05 SOUND 섹션</td></tr>
